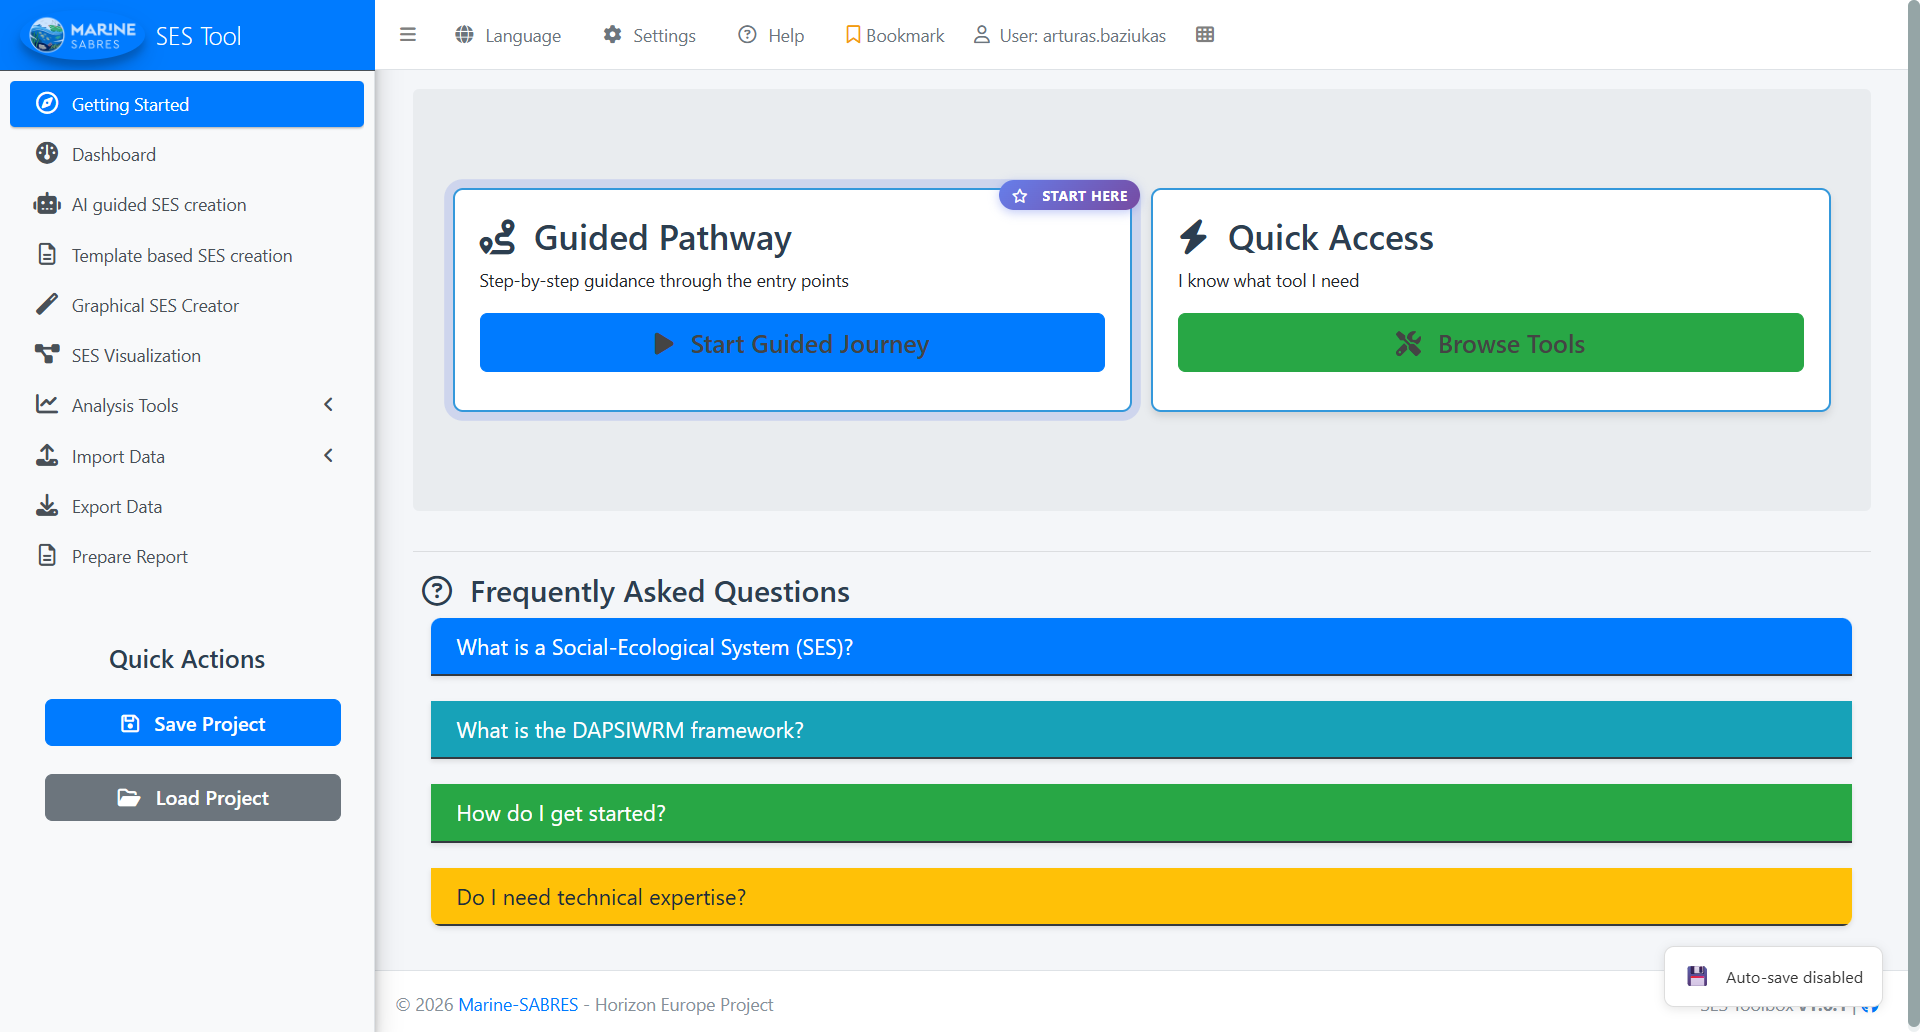
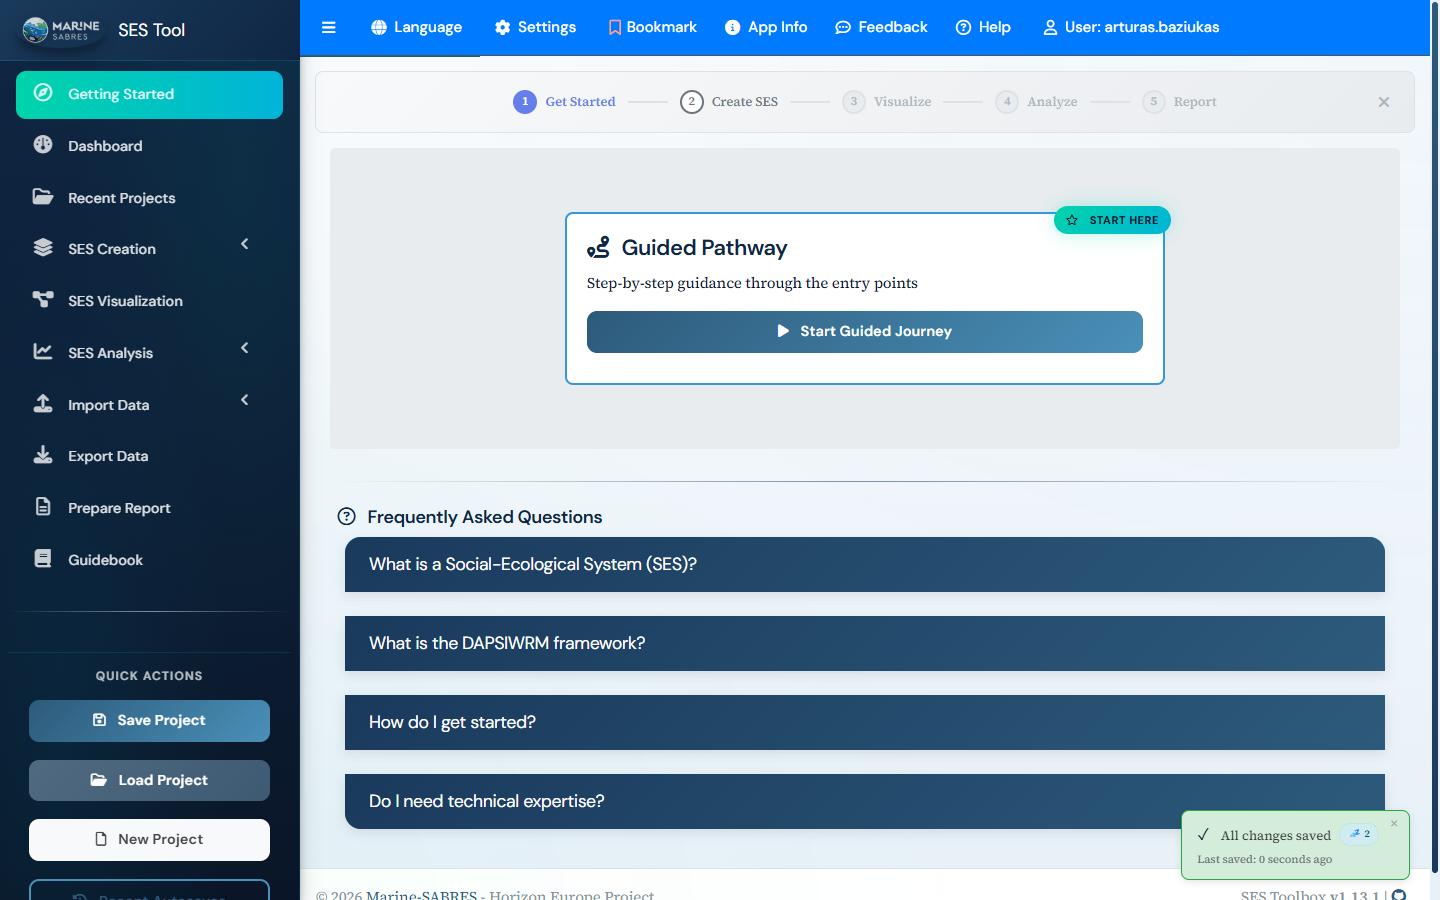
docs(readme): refresh screenshots with v1.13.1 captures + accurate captions
Replaces the three docs/images/ screenshots with fresh full-page captures
from the running v1.13.1 app. All three confirm the visible state of the
post-PR-#17 build:
- screenshot-home.png — workflow stepper now showing translated labels
  ("Get Started", "Create SES", "Visualize", "Analyze", "Report") instead
  of the raw i18n keys that were rendering before PR #17.
- screenshot-visualization.png — SES Creation submenu (Templates, AI-guided)
  expanded; sidebar nav + workflow stepper visible.
- screenshot-layout.png — SES Visualization page with layout controls
  (Hierarchical DAPSI, Edit Mode, Leverage Points, Highlight Loop).

README captions rewritten to match what the screenshots actually show.

Pull request: docs(readme): refresh screenshots with v1.13.1 captures + accurate captions
## Summary

Replaces the three \`docs/images/\` screenshots with fresh full-page captures from the running v1.13.1 build (taken via headless Playwright), and rewrites the README captions so they describe what's actually on screen.

## Why now

PR #17 fixed the workflow stepper's missing i18n keys. The old README screenshots predated that fix, so they would have shown raw keys ("modules.workflow_stepper.step_get_started" etc.) if re-rendered today. The new captures show the proper translated labels: **Get Started · Create SES · Visualize · Analyze · Report**.

## Changes (4 files, +9/-7)

- \`docs/images/screenshot-home.png\` — Home page with workflow stepper showing translated labels, Guided Pathway card, FAQ section.
- \`docs/images/screenshot-visualization.png\` — SES Creation menu expanded (Templates, AI-guided), full UI shell.
- \`docs/images/screenshot-layout.png\` — Visualization page with layout controls (Hierarchical DAPSI, Edit Mode, Leverage/Loop highlight toggles, auto-save indicator).
- \`README.md\` — captions rewritten to describe each image accurately.

## Verification

Screenshots taken via headless Playwright on the locally-running app at \`http://127.0.0.1:3842/\` from the clean clone (not OneDrive). Both \`<title>SES Tool - MarineSABRES</title>\` and footer \`SES Toolbox v1.13.1\` confirmed before capture.

## Note
[…]

diff --git a/MarineSABRES_SES_Shiny/README.md b/MarineSABRES_SES_Shiny/README.md
@@ -13,17 +13,19 @@ A comprehensive Shiny application for Social-Ecological Systems (SES) analysis a
 
 ## Screenshots
 
+> Captured from the live application at v1.13.1.
+
 ### Home Page - Guided Workflow
 ![Home Page](docs/images/screenshot-home.png)
-*Choose between a guided step-by-step journey or quick access to specific tools*
+*Workflow stepper (Get Started → Create SES → Visualize → Analyze → Report), guided-pathway entry card with "Start Guided Journey" CTA, and a built-in FAQ section. Sidebar gives one-click access to every tool.*
 
-### Network Visualization
-![Network Visualization](docs/images/screenshot-visualization.png)
-*Interactive Causal Loop Diagram with DAPSI(W)R(M) elements, edit mode, and auto-save*
+### SES Creation
+![SES Creation](docs/images/screenshot-visualization.png)
+*Three paths to build a model: Templates (pre-configured marine SES like Fisheries, Caribbean, Offshore Wind), AI-guided creation, and Standard Entry. The same workflow stepper at the top shows progress through the 5-stage analysis pipeline.*
 
-### Layout Controls
-![Layout Controls](docs/images/screenshot-layout.png)
-*Customize network layout with hierarchical views, spacing, and horizontal spread options*
+### Network Visualization & Layout Controls
+![Visualization Layout](docs/images/screenshot-layout.png)
+*Causal Loop Diagram view with hierarchical (DAPSIWRM-aware) and physics-based layouts, on-screen editing toggle, leverage-point highlighting, and loop highlighting. Auto-save indicator (bottom right) confirms persistence.*
 
 ---
 